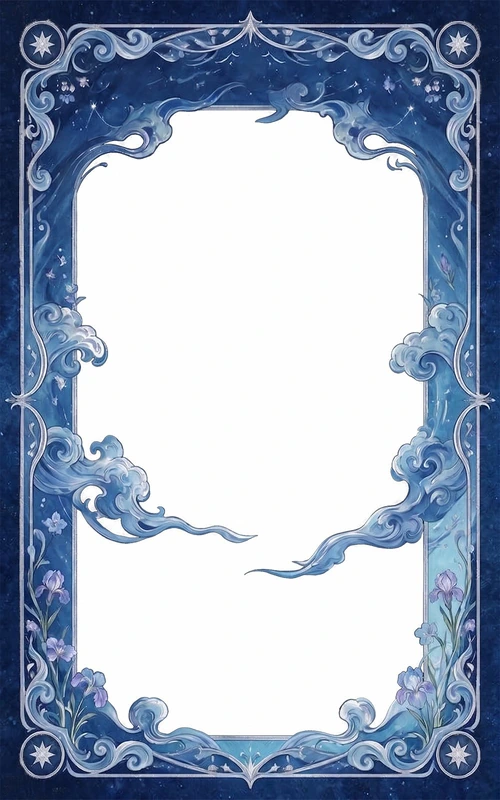
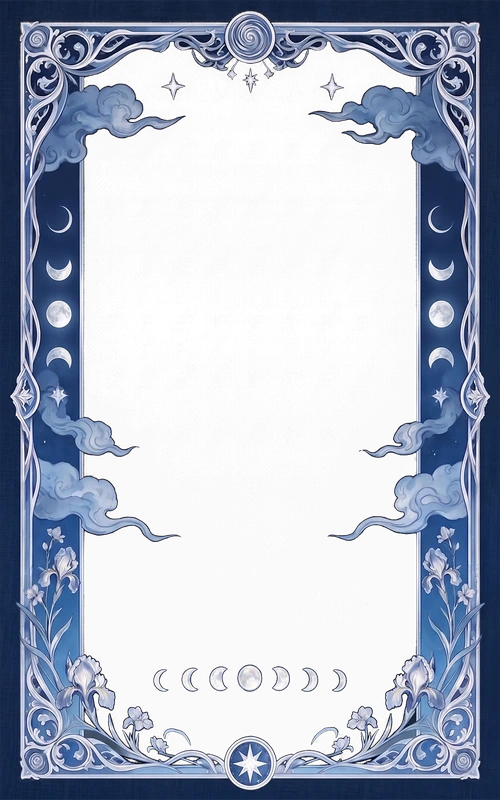
feat: 塔罗默认花边换成带 alpha 的 PNG（中央镂空）
陛下给的 4 张 1000×1600 PNG 都是 RGBA、中心透明，原本存的 JPG
满铺挡牌面已被覆盖为真·透明花边：
- 塔罗1.png -> frame-azure-clouds  蓝云月相
- 塔罗3.png -> frame-cloud-irises  云海鸢尾
- 塔罗2.png -> frame-moon-phases   月相花语
- 塔罗4.png -> frame-stellar-orbit 星轨花环

BUILTIN_FRAMES 顺序与中文名按图意调整；FRAME_SEED_VER 1->2
让已有用户重新入库这 4 张真镂空花边。
sw v15 -> v16

diff --git a/src/塔罗编辑引擎.html b/src/塔罗编辑引擎.html
@@ -822,9 +822,9 @@ let _defBackCache = null;
 const BUILTIN_BACK_URL = 'assets/tarot/back-mercury-1x.webp';
 /* 默认花边库（陛下上传的 4 张 5:8 装饰背景，中央留白可叠牌面） */
 const BUILTIN_FRAMES = [
-  { url: 'assets/tarot/frame-azure-clouds-1x.webp',  id: 'frame-azure-clouds',  name: '蓝云繁花' },
-  { url: 'assets/tarot/frame-moon-phases-1x.webp',   id: 'frame-moon-phases',   name: '月相花语' },
+  { url: 'assets/tarot/frame-azure-clouds-1x.webp',  id: 'frame-azure-clouds',  name: '蓝云月相' },
   { url: 'assets/tarot/frame-cloud-irises-1x.webp',  id: 'frame-cloud-irises',  name: '云海鸢尾' },
+  { url: 'assets/tarot/frame-moon-phases-1x.webp',   id: 'frame-moon-phases',   name: '月相花语' },
   { url: 'assets/tarot/frame-stellar-orbit-1x.webp', id: 'frame-stellar-orbit', name: '星轨花环' },
 ];
 let _builtinFrameCache = null;
@@ -880,7 +880,7 @@ function cardBaseSrc(cd, c){
    牌面内容 = 游戏里现在渲染的那套（emoji + 牌名 + 正位关键词），改哪张就从哪张的默认值往上加。 */
 const SEED_VER = 1;                       // 以后默认牌面样式升级就 +1，只刷新「还没自己改过」的牌
 const BACK_SEED_VER = 2;                  // 默认牌背素材升级就 +1（同时换 BUILTIN_BACK_URL），只刷新「还没自己改过」牌背用户
-const FRAME_SEED_VER = 1;                 // 默认花边素材升级就 +1（同时换 BUILTIN_FRAMES 列表），只刷新「陛下没改过对应花边」的
+const FRAME_SEED_VER = 2;                 // 默认花边素材升级就 +1（同时换 BUILTIN_FRAMES 列表），只刷新「陛下没改过对应花边」的
 async function seedBuiltinFrames(){
   let added = 0;
   for(const fd of BUILTIN_FRAMES){

diff --git a/src/sw.js b/src/sw.js
@@ -1,6 +1,6 @@
 /* 拾光·澈屿 Service Worker —— 导航页/HTML 用 network-first（保证陛下改完代码立刻生效），
    其他静态资源用 stale-while-revalidate（秒开 + 后台更新）。 */
-const CACHE = 'shuguang-v15';
+const CACHE = 'shuguang-v16';
 const PRECACHE = [
   './',
   './index.html',
